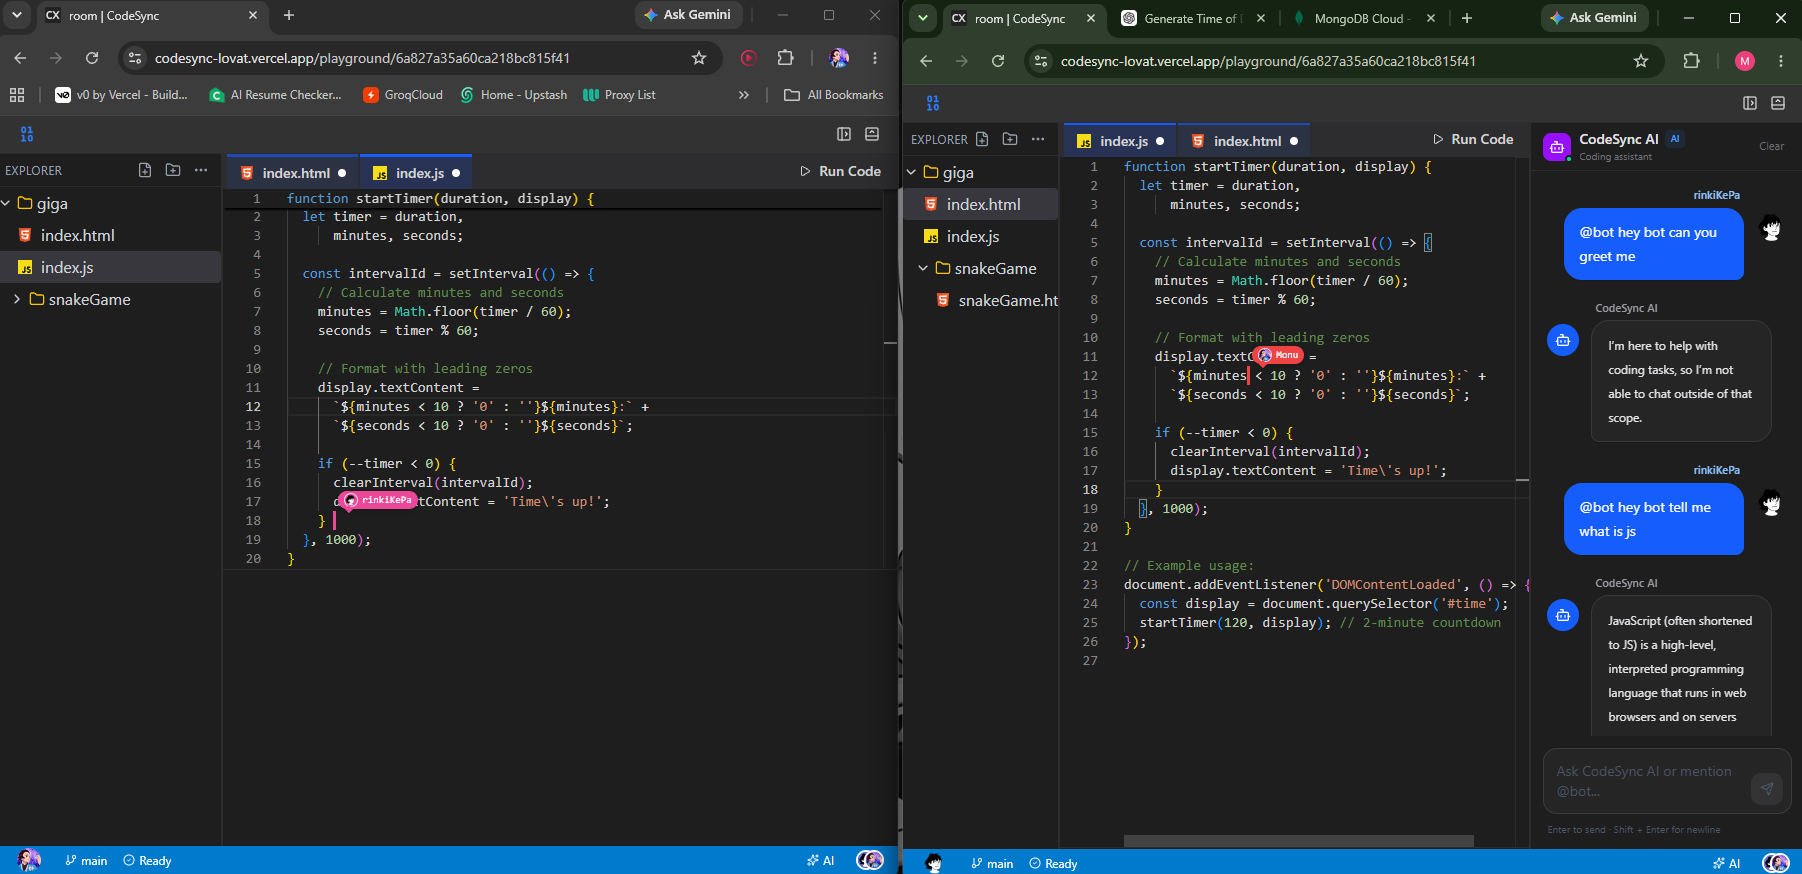
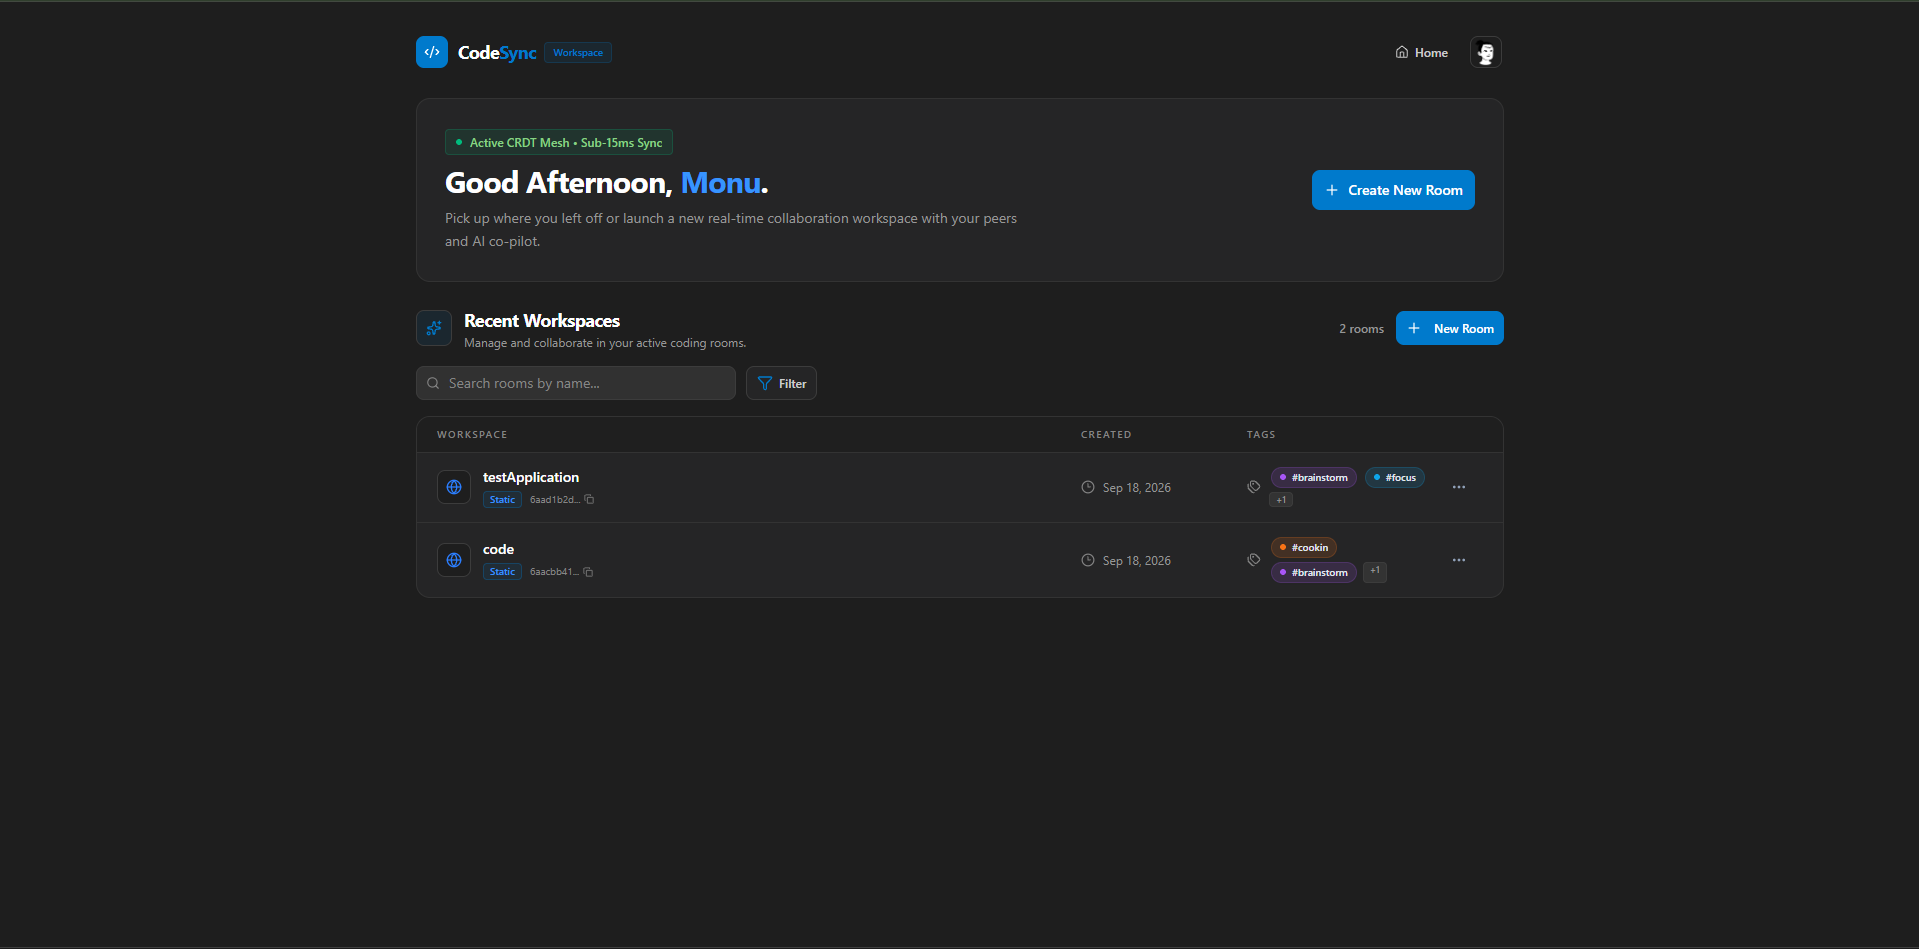
docs: update README with new UI screenshots and assets

diff --git a/readme.md b/readme.md
@@ -50,13 +50,9 @@ Watch CodeSync in action on YouTube:
 
 ### Landing Page
 <p align="center">
-  <img src="./public/landing.png" alt="CodeSync Landing Page" width="900" />
+  <img src="./public/home.png" alt="CodeSync Landing Page" width="900" />
 </p>
 
-### Create Workspace
-<p align="center">
-  <img src="./public/create-room.png" alt="Create CodeSync Workspace" width="900" />
-</p>
 
 ### Collaborative Workspace & Monaco Editor
 <p align="center">
